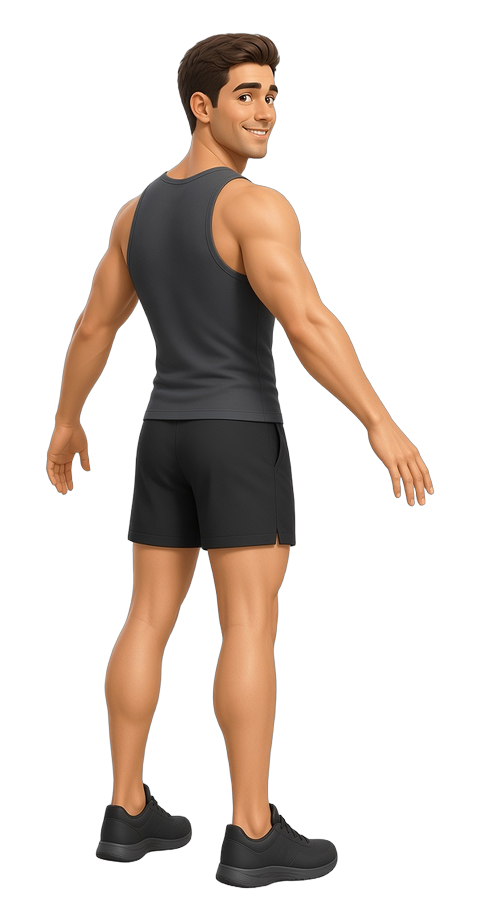
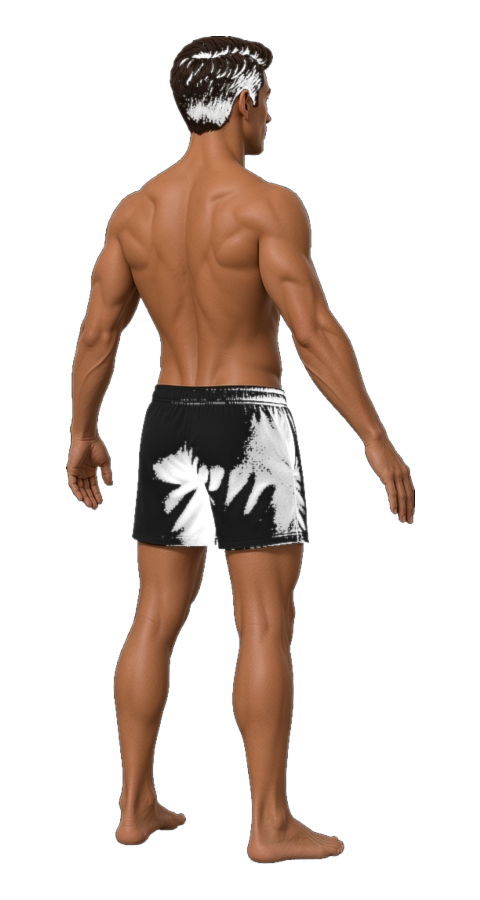
A2: man base shirtless + boxers only (Standard Fit)
Replace tank+boxers man bases with shirtless/boxers/barefoot frames
fitted to 480×900 RGBA, including turn yaws and fit script.

Changed region(s): [[0.0938, 0.0311, 0.9062, 0.9956]]

diff --git a/smart-fashion-finder/scripts/fit-man-shirtless-bases.py b/smart-fashion-finder/scripts/fit-man-shirtless-bases.py
@@ -1,0 +1,116 @@
+#!/usr/bin/env python3
+"""
+Fit AI-generated shirtless man bases onto Standard Fit 480×900 RGBA
+(transparent black bg), matching the legacy tank framing (head≈36, feet≈863).
+
+Sources: /opt/cursor/artifacts/assets/man_base_shirtless_{front,45,90,135,180}.jpg
+Outputs: assets/images/bases/man.png + turn/man_{0,45,90,135,180,225,270,315}.png
+"""
+from __future__ import annotations
+
+from pathlib import Path
+
+import numpy as np
+from PIL import Image, ImageFilter
+
+ROOT = Path(__file__).resolve().parents[1]
+BASES = ROOT / "assets/images/bases"
+TURN = BASES / "turn"
+SRC = Path("/opt/cursor/artifacts/assets")
+
+CANVAS_W, CANVAS_H = 480, 900
+# Match clean tank subject framing from git 66b18ac5
+TARGET_TOP = 36
+TARGET_BOTTOM = 863  # inclusive
+TARGET_H = TARGET_BOTTOM - TARGET_TOP + 1  # 828
+
+
+def subject_mask(rgb: np.ndarray) -> np.ndarray:
+    """Soft subject mask from near-black studio background."""
+    lum = rgb.max(axis=2).astype(np.float32)
+    # hard core + soft edge
+    hard = lum > 22
+    soft = np.clip((lum - 8.0) / 28.0, 0.0, 1.0)
+    # keep hard interior fully opaque
+    alpha = np.where(hard, 1.0, soft)
+    return alpha
+
+
+def bbox_from_alpha(alpha: np.ndarray, thr: float = 0.15) -> tuple[int, int, int, int]:
+    ys, xs = np.where(alpha >= thr)
+    if len(xs) == 0:
+        raise RuntimeError("empty subject")
+    return int(xs.min()), int(ys.min()), int(xs.max()), int(ys.max())
+
+
+def fit_to_canvas(src_path: Path, *, flip: bool = False) -> Image.Image:
+    im = Image.open(src_path).convert("RGB")
+    if flip:
+        im = im.transpose(Image.FLIP_LEFT_RIGHT)
+    rgb = np.array(im)
+    alpha = subject_mask(rgb)
+    x0, y0, x1, y1 = bbox_from_alpha(alpha)
+    crop_rgb = rgb[y0 : y1 + 1, x0 : x1 + 1]
+    crop_a = alpha[y0 : y1 + 1, x0 : x1 + 1]
+    ch, cw = crop_a.shape
+    scale = TARGET_H / ch
+    new_w = max(1, int(round(cw * scale)))
+    new_h = TARGET_H
+    rgba = np.dstack([crop_rgb, (crop_a * 255).astype(np.uint8)])
+    pil = Image.fromarray(rgba, "RGBA").resize((new_w, new_h), Image.Resampling.LANCZOS)
+    # slight edge soften
+    a = pil.split()[3].filter(ImageFilter.GaussianBlur(radius=0.6))
+    r, g, b, _ = pil.split()
+    pil = Image.merge("RGBA", (r, g, b, a))
+
+    canvas = Image.new("RGBA", (CANVAS_W, CANVAS_H), (0, 0, 0, 0))
+    x = (CANVAS_W - new_w) // 2
+    y = TARGET_TOP
+    canvas.paste(pil, (x, y), pil)
+    return canvas
+
+
+def main() -> None:
+    mapping = {
+        "front": (SRC / "man_base_shirtless_front.jpg", False),
+        "45": (SRC / "man_base_shirtless_45.jpg", False),
+        # generated profile faced opposite of legacy man_90 — flip to match
+        "90": (SRC / "man_base_shirtless_90.jpg", True),
+        "135": (SRC / "man_base_shirtless_135.jpg", False),
+        "180": (SRC / "man_base_shirtless_180.jpg", False),
+    }
+    for key, (path, flip) in mapping.items():
+        if not path.exists():
+            raise SystemExit(f"missing source: {path}")
+        print(f"fit {key} from {path.name} flip={flip}")
+        out = fit_to_canvas(path, flip=flip)
+        if key == "front":
+            out.save(BASES / "man.png", optimize=True)
+            out.save(TURN / "man_0.png", optimize=True)
+            print("  -> man.png, turn/man_0.png", out.size)
+        else:
+            dest = TURN / f"man_{key}.png"
+            out.save(dest, optimize=True)
+            print(f"  -> {dest.relative_to(ROOT)}", out.size)
+
+    # Mirrored companions for on-disk completeness (not in TURN_YAWS)
+    pairs = [("45", "315"), ("90", "270"), ("135", "225")]
+    for src_yaw, dst_yaw in pairs:
+        src = Image.open(TURN / f"man_{src_yaw}.png")
+        flipped = src.transpose(Image.FLIP_LEFT_RIGHT)
+        flipped.save(TURN / f"man_{dst_yaw}.png", optimize=True)
+        print(f"mirror man_{src_yaw} -> man_{dst_yaw}")
+
+    # Quick framing report
+    for name in ["man.png", "turn/man_0.png", "turn/man_45.png", "turn/man_90.png", "turn/man_135.png", "turn/man_180.png"]:
+        im = Image.open(BASES / name)
+        a = np.array(im)
+        ys, xs = np.where(a[:, :, 3] > 40)
+        print(
+            f"QA {name}: bbox=({xs.min()},{ys.min()})-({xs.max()},{ys.max()}) "
+            f"h={ys.max()-ys.min()+1} alpha_mean={a[:,:,3].mean():.1f}"
+        )
+
+
+if __name__ == "__main__":
+    main()

diff --git a/smart-fashion-finder/docs/critical-assets-480x900.md b/smart-fashion-finder/docs/critical-assets-480x900.md
@@ -7,7 +7,7 @@ Canvas: **480×900 PNG RGBA**. Anchors (px): head y≈49 · shoulders y≈157 ·
 ### A2 Bases (clean / barefoot)
 | File | Status |
 |------|--------|
-| `bases/man.png` + `turn/man_*.png` | **Restored** undamaged barefoot base (tank + boxers). Tan-block A2 damage reverted. Shirtless/boxers-only needs artist paint. |
+| `bases/man.png` + `turn/man_*.png` | **A2 done** — shirtless + boxers + barefoot (480×900 RGBA). Fit via `scripts/fit-man-shirtless-bases.py`. |
 | `bases/woman.png` + turn | Barefoot + bra/underwear (clean enough for try-on) |
 | Kids/teens | Legacy assets remain; UI personas are man/woman only |
 
